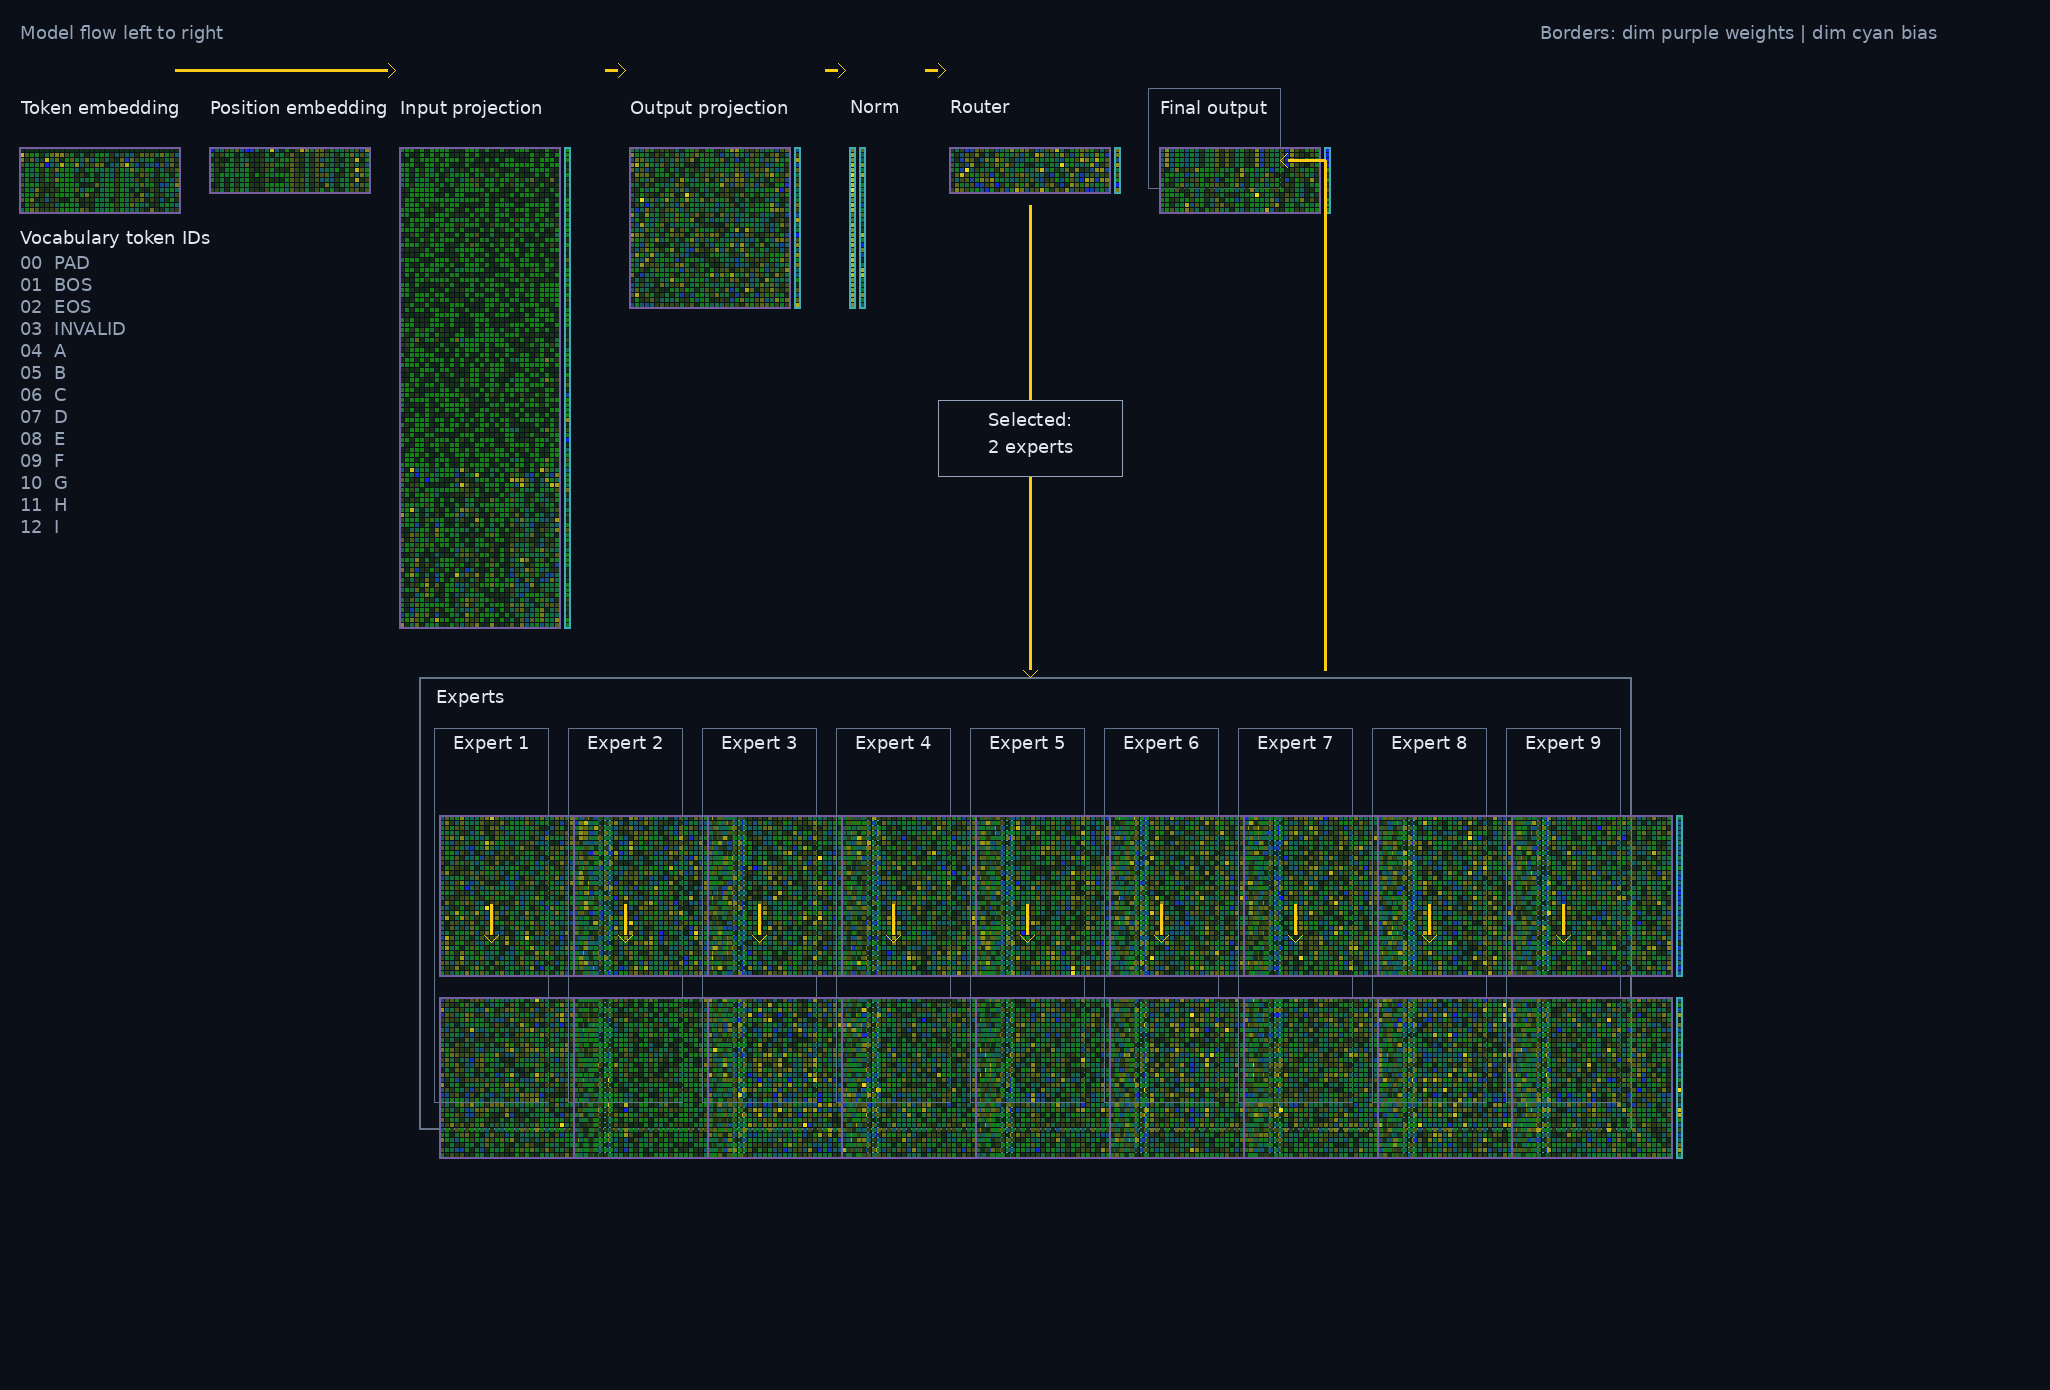
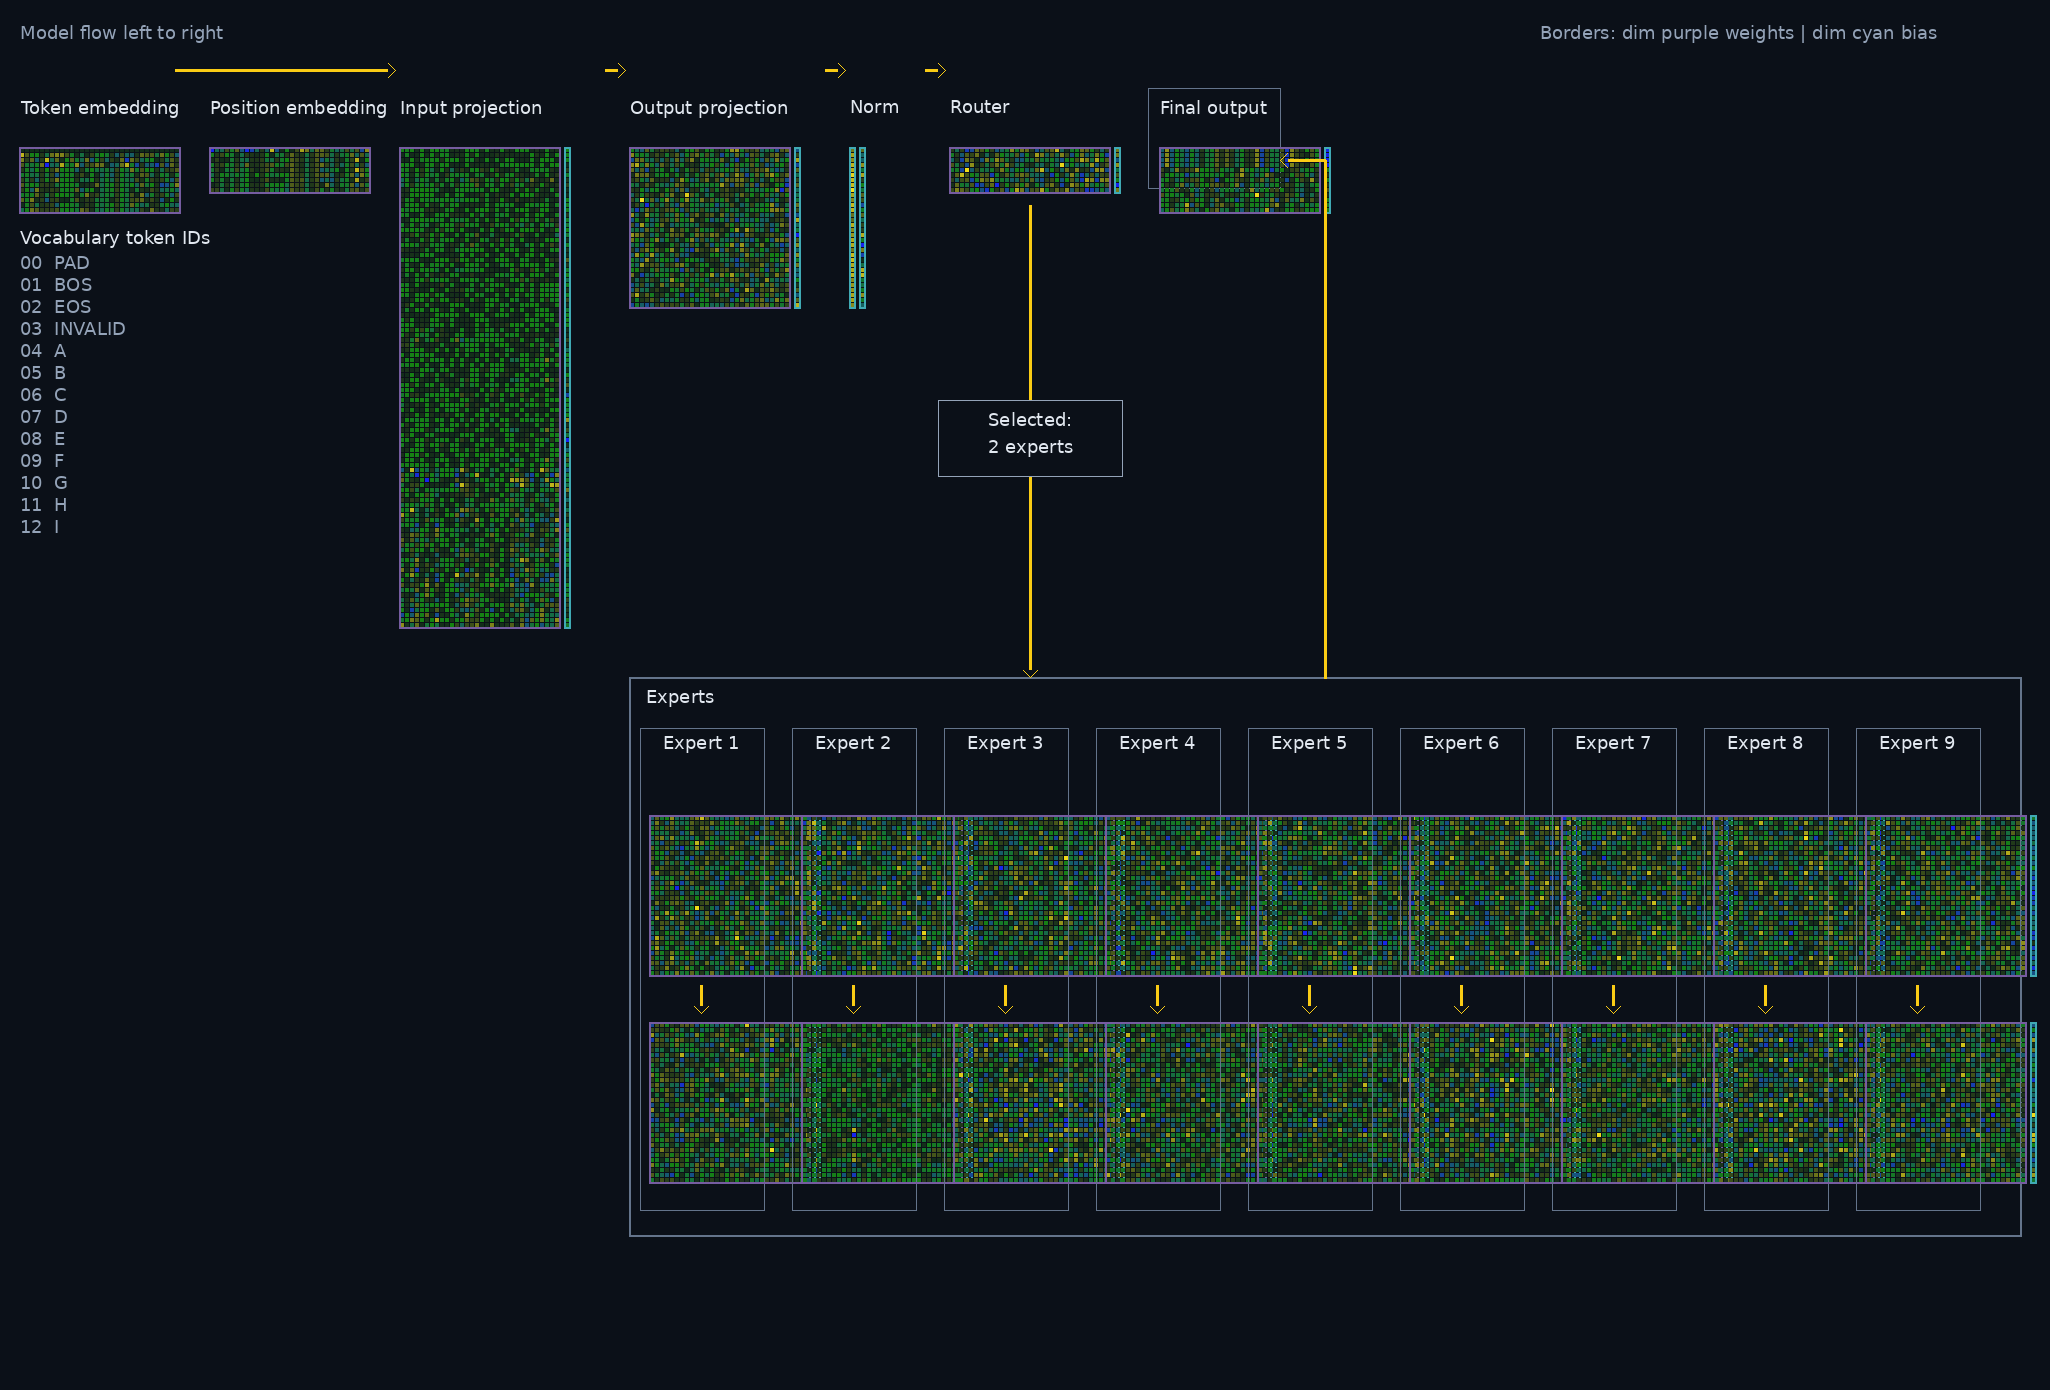
Resize and align Crystal-9 inspector experts

diff --git a/tools/tensor_inspector.py b/tools/tensor_inspector.py
@@ -200,11 +200,11 @@ def render_checkpoint_inspector(source: Path) -> tuple[bytes, dict[str, object]]
     _arrow(rgb, width, 825, flow_y, 845, flow_y)
     _arrow(rgb, width, 925, flow_y, 945, flow_y)
 
-    # Keep the nine repeated modules close enough to compare, while retaining a clear inter-layer arrow gutter.
-    expert_y, expert_gap, expert_width = 720, 20, 114
+    # Begin directly under Output projection and give each expert enough breathing room around its paired matrices.
+    expert_y, expert_gap, expert_width = 720, 12, 140
     router_center = 1030
-    expert_left, expert_right = 420, 1630
-    expert_top, expert_bottom = expert_y - 42, 1128
+    expert_left, expert_right = 630, 2020
+    expert_top, expert_bottom = expert_y - 42, 1235
     _rectangle(rgb, width, expert_left, expert_top, expert_right - expert_left, expert_bottom - expert_top, _EXPERT_BORDER)
     _text(rgb, width, expert_left + 16, expert_top + 12, "Experts", _LABEL)
     _arrow(rgb, width, router_center, 205, router_center, expert_top - 1)
@@ -214,22 +214,22 @@ def render_checkpoint_inspector(source: Path) -> tuple[bytes, dict[str, object]]
     _centered_text(rgb, width, router_center, 412, "Selected:", _LABEL)
     _centered_text(rgb, width, router_center, 440, "2 experts", _LABEL)
     for expert in range(9):
-        x = 440 + expert * (expert_width + expert_gap)
-        box_top, box_bottom = expert_y + 8, expert_y + 382
-        _rectangle(rgb, width, x - 6, box_top, 114, box_bottom - box_top, _EXPERT_BORDER, 1)
+        x = 650 + expert * (expert_width + expert_gap)
+        box_top, box_bottom = expert_y + 8, expert_y + 490
+        _rectangle(rgb, width, x - 10, box_top, 124, box_bottom - box_top, _EXPERT_BORDER, 1)
         _centered_text(rgb, width, x + 51, box_top + 8, f"Expert {expert + 1}", _LABEL)
         _render_pair(rgb, width, state, f"experts.{expert}.0.weight", f"experts.{expert}.0.bias", "", x, expert_y + 48)
-        _render_pair(rgb, width, state, f"experts.{expert}.2.weight", f"experts.{expert}.2.bias", "", x, expert_y + 230)
-        _arrow(rgb, width, x + 51, expert_y + 184, x + 51, expert_y + 222)
+        _render_pair(rgb, width, state, f"experts.{expert}.2.weight", f"experts.{expert}.2.bias", "", x, expert_y + 255)
+        _arrow(rgb, width, x + 51, expert_y + 265, x + 51, expert_y + 293)
     # Return in a dedicated outer lane, then enter the Final output panel boundary rather than its matrix.
     output_return_x, output_return_y = 1325, 160
-    _line(rgb, width, output_return_x, expert_top - 8, output_return_x, output_return_y)
+    _line(rgb, width, output_return_x, expert_top, output_return_x, output_return_y)
     _arrow(rgb, width, output_return_x, output_return_y, final_panel_right, output_return_y)
 
     metadata = {
-        "format": "crystal-9-tensor-inspector-v9", "source": source.name,
+        "format": "crystal-9-tensor-inspector-v11", "source": source.name,
         "source_sha256": hashlib.sha256(source.read_bytes()).hexdigest(), "tensor_count": len(state),
-        "normalization": "per-tensor symmetric max-absolute", "layout": "architecture-flow-v9",
+        "normalization": "per-tensor symmetric max-absolute", "layout": "architecture-flow-v11",
         "bias_alignment": "vertical output-row axis", "sections": ["inputs", "attention", "norm_router", "experts", "output"],
         "legend": {"WEIGHTS": "matrix; rows are output features", "BIAS": "bias column; one value per output row", "B": "bias column; one value per output row"},
         "expert_layout": "nine Expert boxes, each containing its first and second layer",

diff --git a/tests/test_tensor_inspector.py b/tests/test_tensor_inspector.py
@@ -15,7 +15,7 @@ def test_checkpoint_inspector_renders_actual_tensor_inventory_as_png():
     assert metadata["tensors"]["attention.in_proj_weight"]["shape"] == [96, 32]
     assert metadata["tensors"]["experts.0.0.weight"]["shape"] == [32, 32]
     assert metadata["normalization"] == "per-tensor symmetric max-absolute"
-    assert metadata["layout"] == "architecture-flow-v9"
+    assert metadata["layout"] == "architecture-flow-v11"
     assert metadata["bias_alignment"] == "vertical output-row axis"
     assert metadata["sections"][-2:] == ["experts", "output"]
     assert metadata["legend"]["B"] == "bias column; one value per output row"

diff --git a/tools/export_tensor_inspectors.py b/tools/export_tensor_inspectors.py
@@ -31,7 +31,7 @@ def main() -> None:
             "tensor_count": metadata["tensor_count"], "width": metadata["width"], "height": metadata["height"],
             "normalization": metadata["normalization"], "derived": True,
         })
-    (OUTPUT.parent / "inspectors.json").write_text(json.dumps({"format": "crystal-9-tensor-inspector-v9", "inspectors": inspectors}, indent=2) + "\n")
+    (OUTPUT.parent / "inspectors.json").write_text(json.dumps({"format": "crystal-9-tensor-inspector-v11", "inspectors": inspectors}, indent=2) + "\n")
 
 
 if __name__ == "__main__":
